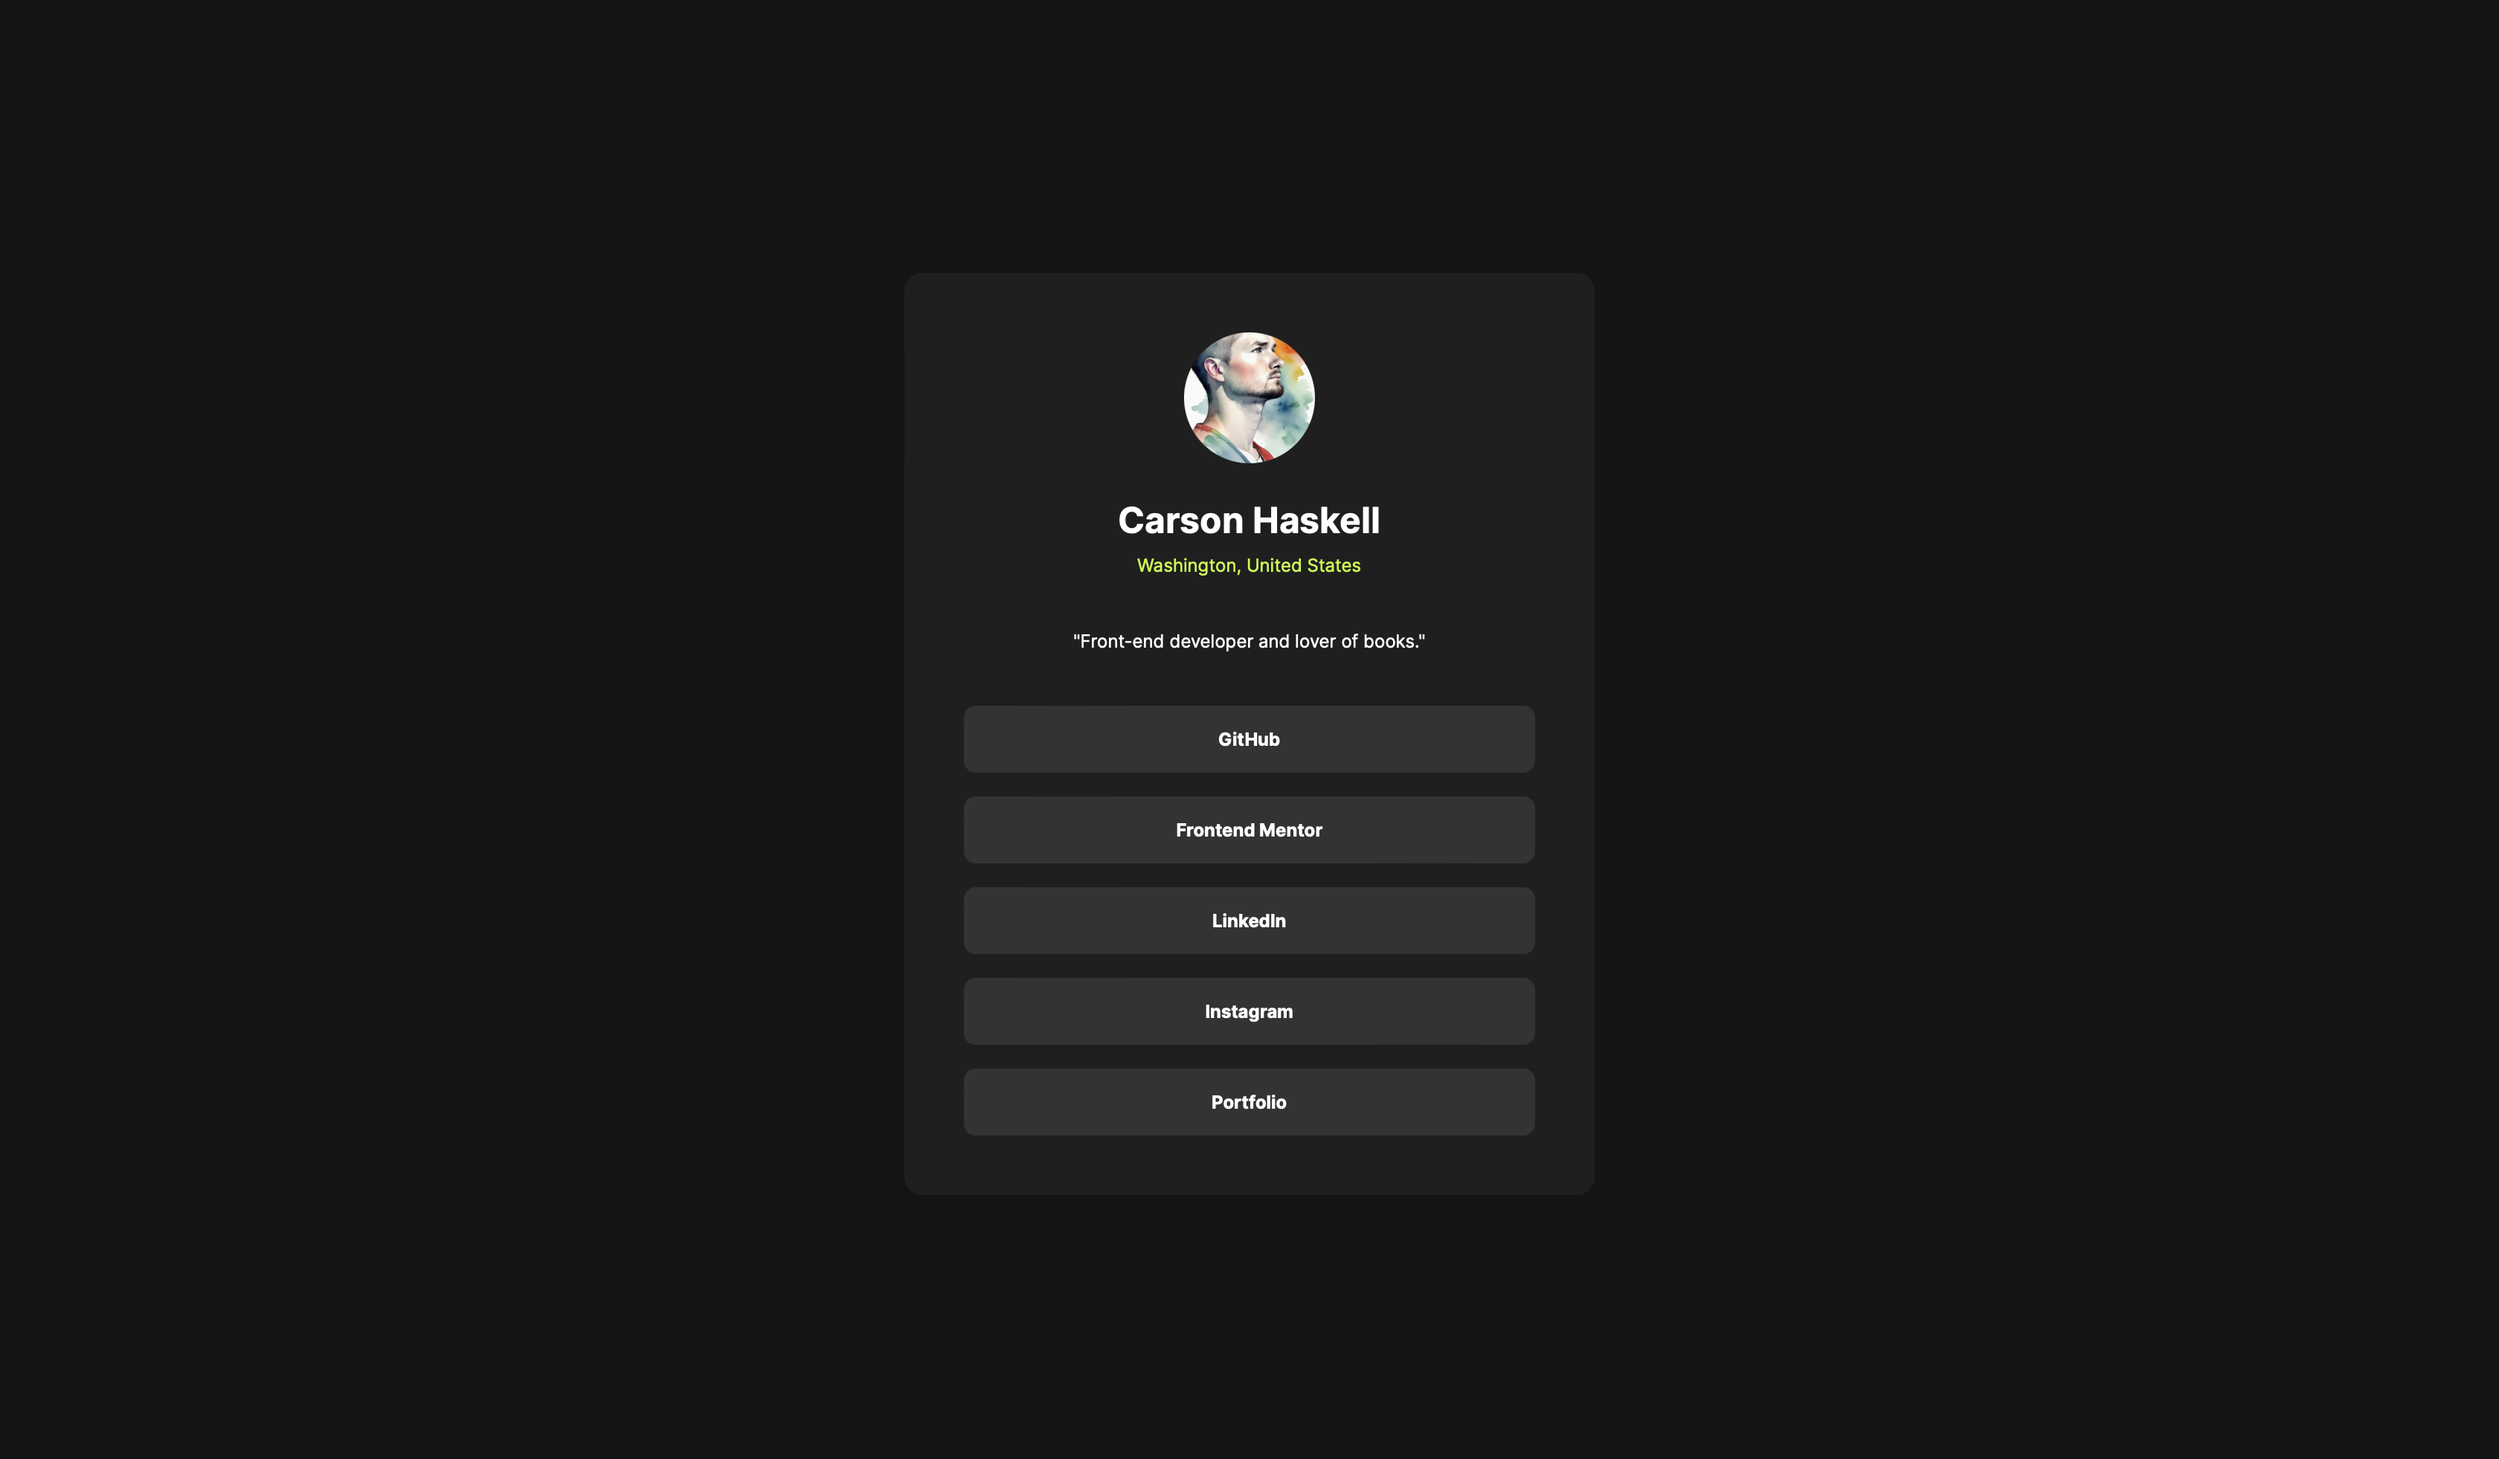
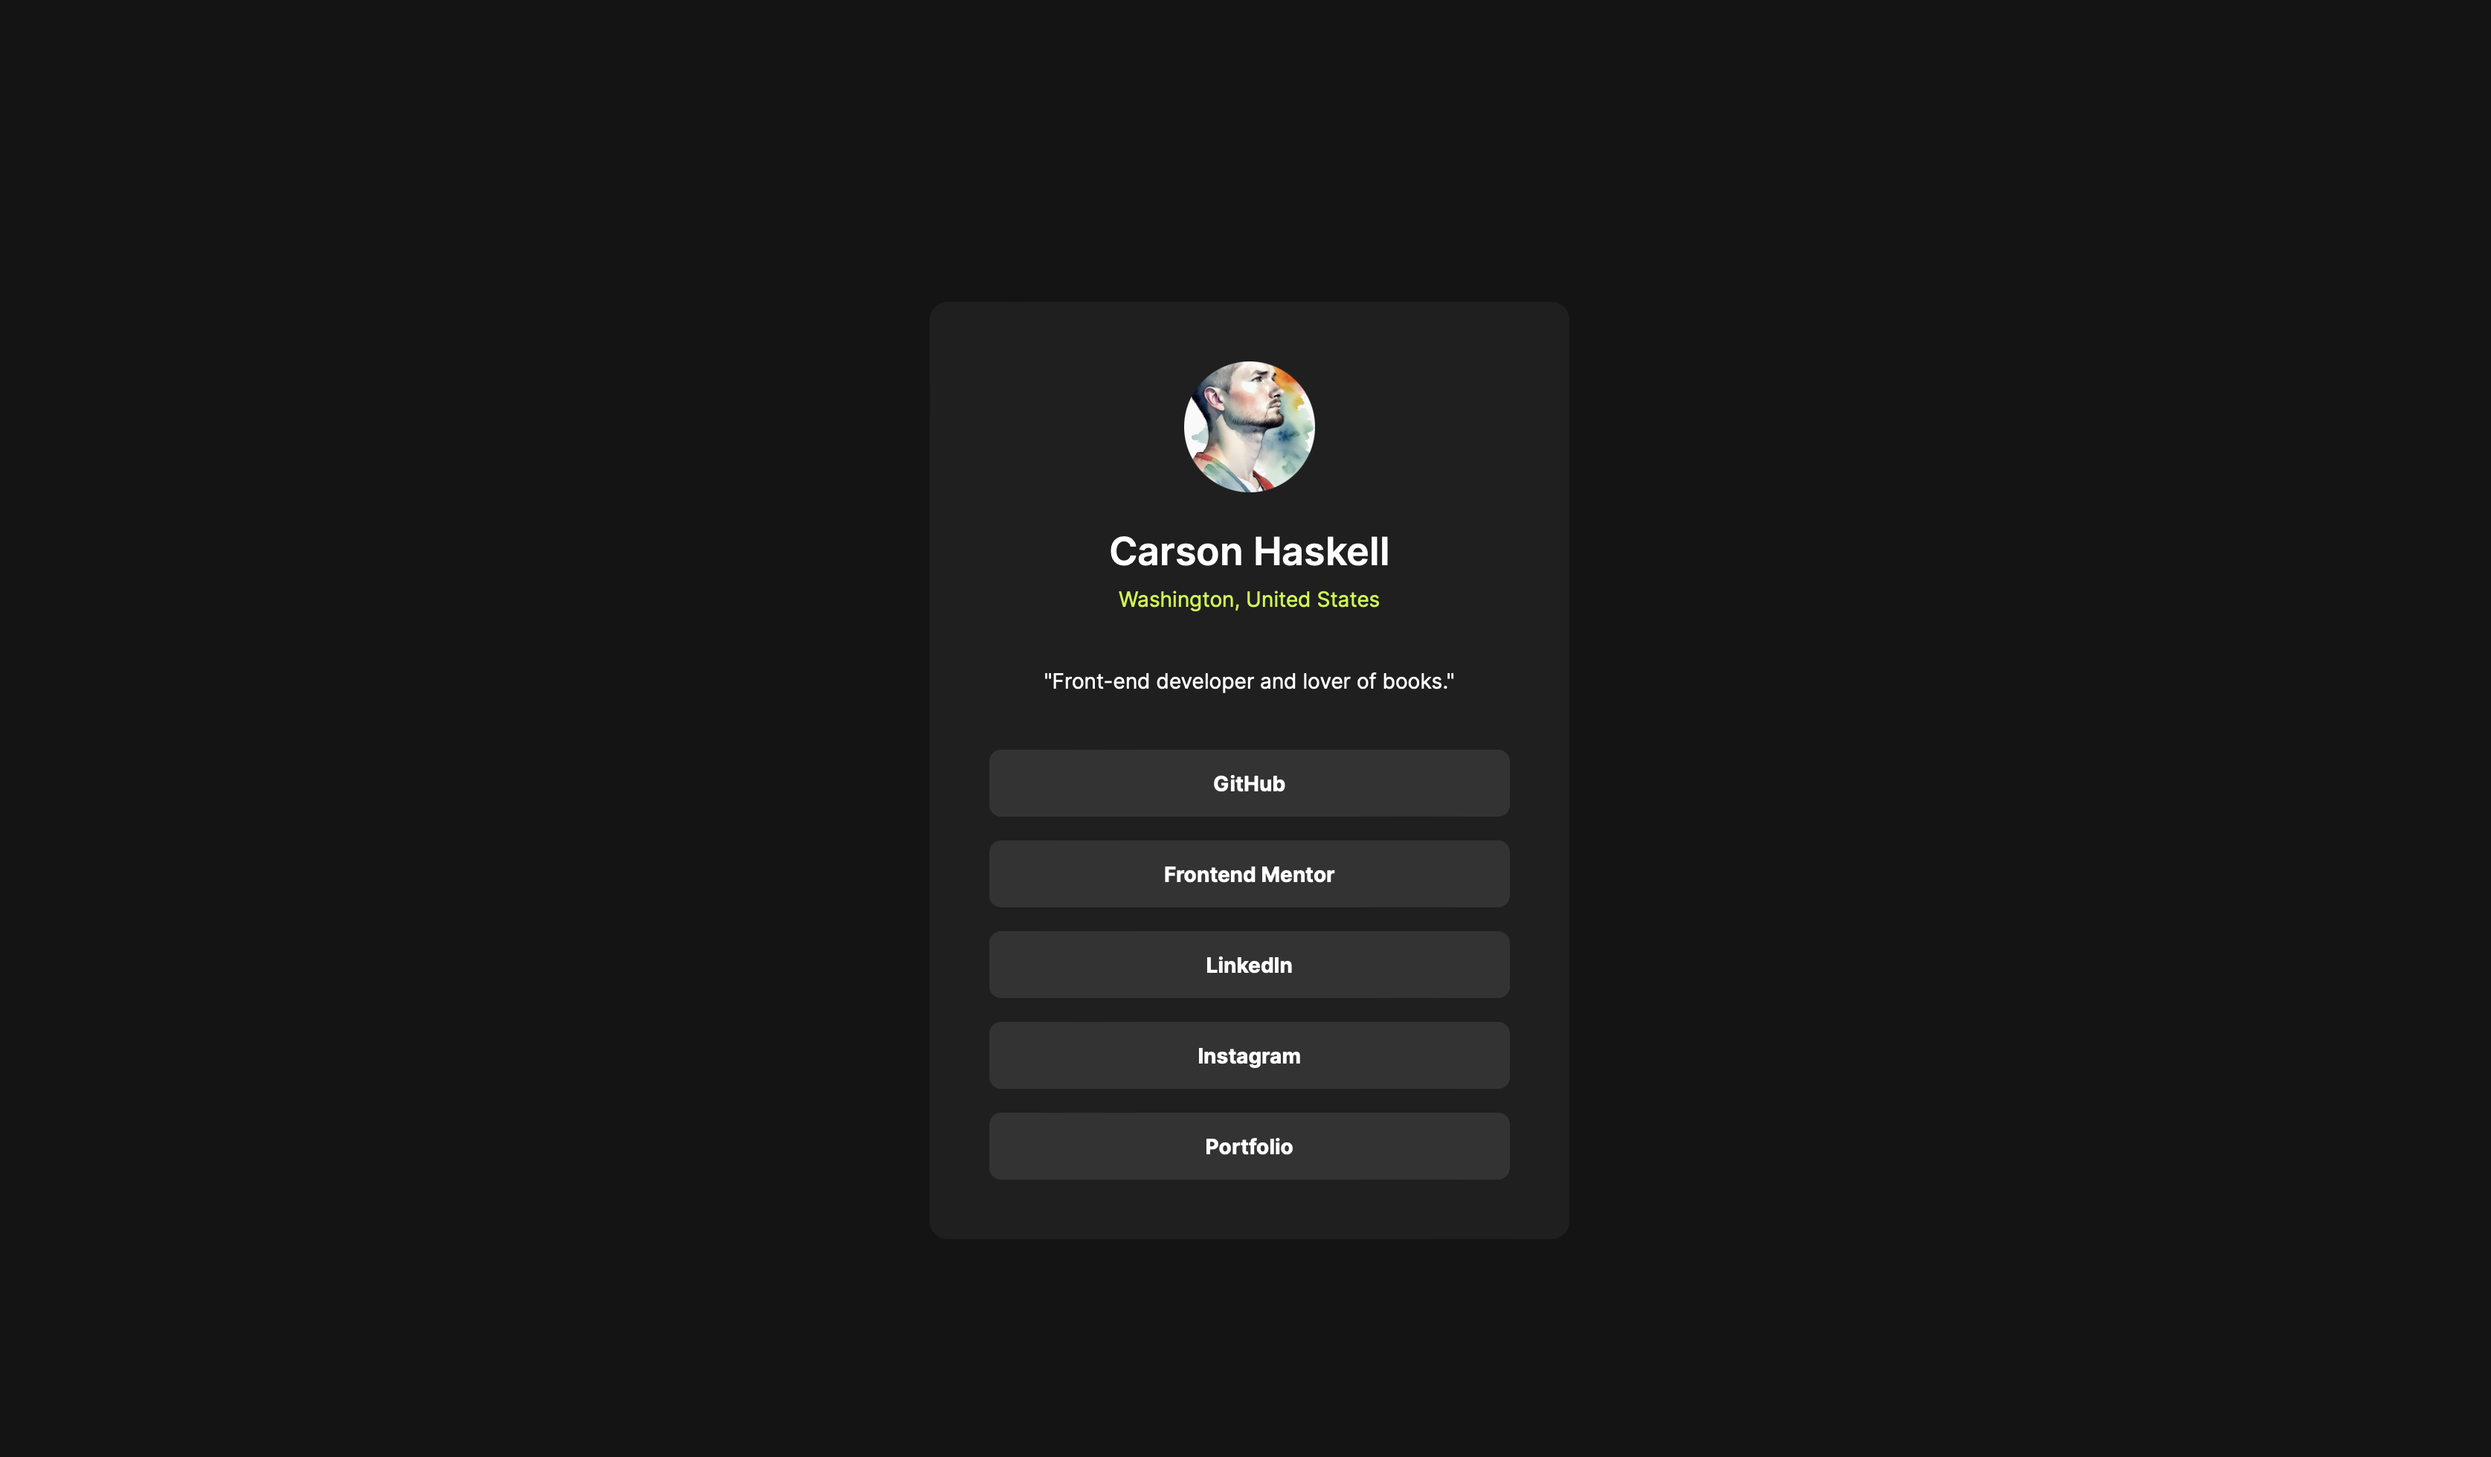
update styling

Changed region(s): [[0.4348, 0.218, 0.559, 0.4982], [0.4658, 0.4982, 0.5279, 0.8096]]

diff --git a/styles.css b/styles.css
@@ -27,13 +27,13 @@ body {
   --100: 8px;
   --50: 4px;
 
-  --text-preset-1: 24px;
-  --text-preset-2: 12px;
+  --text-preset-1: 26px;
+  --text-preset-2: 14px;
 }
 
 /* DESKTOP CONTAINER */
 .container {
-  width: 384px;
+  width: 350px;
   background-color: var(--gray-800);
   padding: var(--500);
   border-radius: 12px;
@@ -42,14 +42,14 @@ body {
 /* MOBILE CONTAINER */
 @media (max-width: 768px) {
   .container {
-    width: 327px;
+    width: 300px;
   }
 }
 
 /* TABLET CONTAINER */
 @media (min-width: 768px) and (max-width: 1200px) {
   .container {
-    width: 456px;
+    width: 450px;
   }
 }
 
@@ -78,6 +78,7 @@ body {
 
 .name {
   font-size: var(--text-preset-1);
+  font-weight: 600;
   margin: 0;
 }
 
